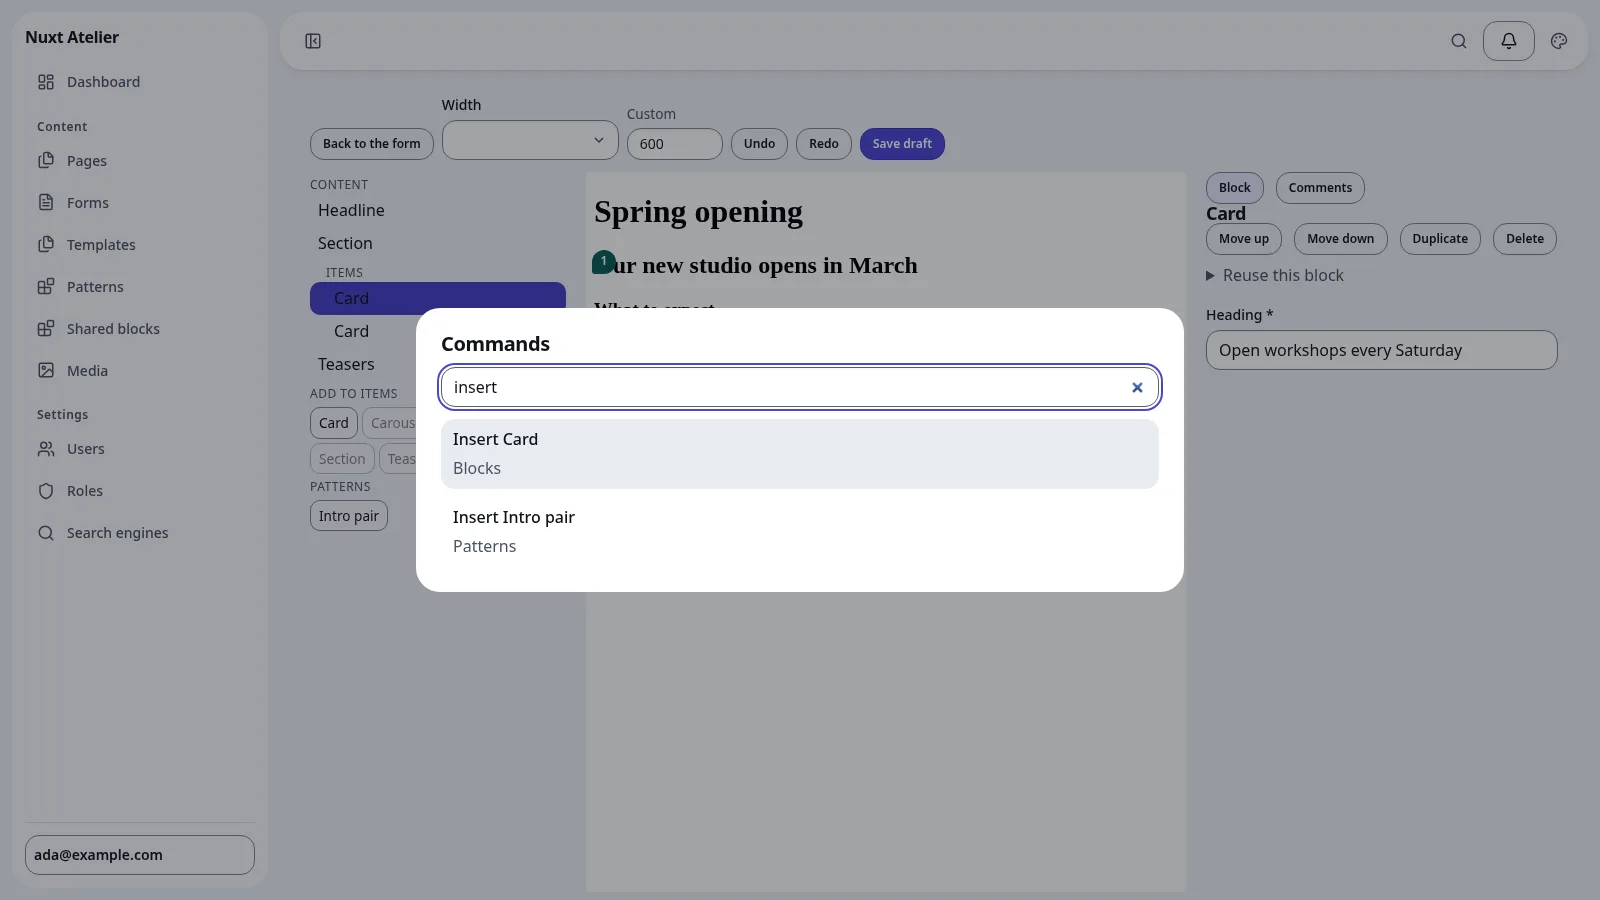
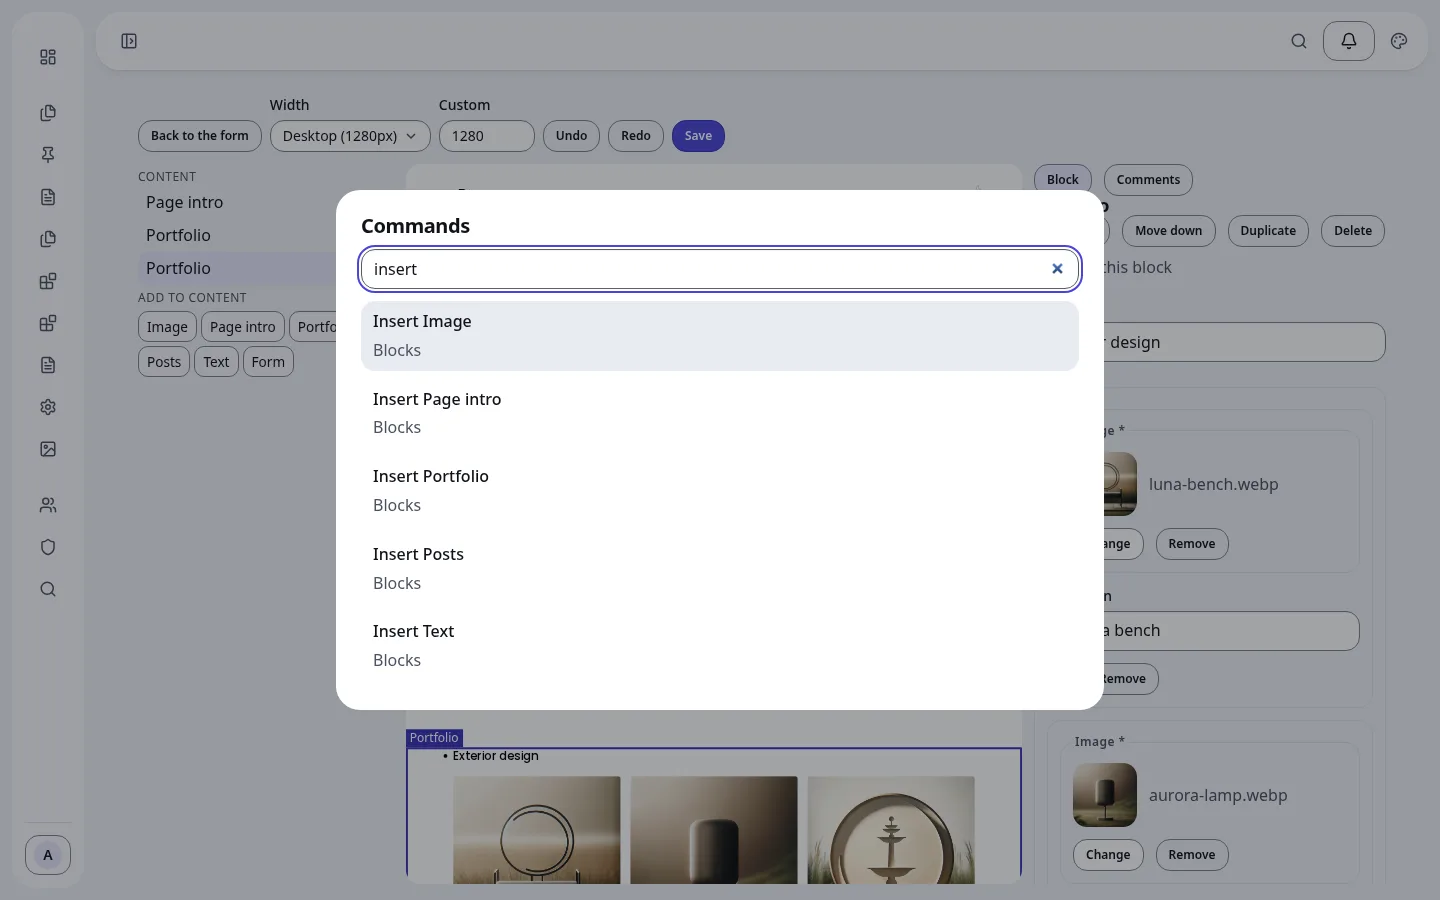
docs: screenshots across the guides, getting started, reference, deployment and tutorial, from a script

diff --git a/scripts/docs-screenshots.ts b/scripts/docs-screenshots.ts
@@ -1,0 +1,195 @@
+// The docs' screenshots (docs/public/media/*.webp), taken from the Rayleigh example with its demo content.
+// Against a fresh database, so the first screen is the setup:
+//
+//   cd examples/rayleigh && bun run build
+//   NUXT_ATELIER_DATABASE_URL=file:/tmp/shots.sqlite bunx atelier migrate apply
+//   NUXT_ATELIER_DATABASE_URL=file:/tmp/shots.sqlite NUXT_APP_SECRET=<32+ characters> node .output/server/index.mjs
+//   bun run docs:screenshots                   # BASE=http://localhost:3000 by default
+//
+// It edits the content as it goes (a draft, a user, a comment, a submission): run it on a fresh database.
+// Names after the command take only those shots (`bun scripts/docs-screenshots.ts admin-list`).
+import type { Locator, Page } from 'playwright-core'
+import { join, resolve } from 'node:path'
+import { chromium } from 'playwright-core'
+import sharp from 'sharp'
+
+const BASE = process.env.BASE ?? 'http://localhost:3000'
+const OUT = resolve(import.meta.dirname, '../docs/public/media')
+const ONLY = process.argv.slice(2)
+
+const browser = await chromium.launch()
+const context = await browser.newContext({ viewport: { width: 1440, height: 900 }, deviceScaleFactor: 1, reducedMotion: 'reduce' })
+const page = await context.newPage()
+
+/** Saves the page, or one element of it with a margin of the page around it, as a WebP. */
+async function shot(name: string, target: Page | Locator = page) {
+  if (ONLY.length && !ONLY.includes(name))
+    return
+  await page.mouse.move(0, 0) // no hover effects
+  await page.waitForTimeout(400)
+  let clip: { x: number, y: number, width: number, height: number } | undefined
+  if (target !== page) {
+    await (target as Locator).scrollIntoViewIfNeeded()
+    const box = (await (target as Locator).boundingBox())!
+    const x = Math.max(0, box.x - 24)
+    const y = Math.max(0, box.y - 24)
+    clip = { x, y, width: Math.min(1440 - x, box.width + 48), height: Math.min(900 - y, box.height + 48) }
+  }
+  const png = await page.screenshot({ animations: 'disabled', clip })
+  await sharp(png).webp({ quality: 82 }).toFile(join(OUT, `${name}.webp`))
+  console.log(name)
+}
+const admin = (path = '') => page.goto(`${BASE}/admin${path}`)
+const heading = (name: string | RegExp) => page.getByRole('heading', { name }).first().waitFor()
+// the editor keeps a connection open (presence): idle or not after 5 s
+const settle = () => page.waitForLoadState('networkidle', { timeout: 5000 }).catch(() => {}).then(() => page.waitForTimeout(600))
+/** The section of the entry form under `name`. */
+const section = (name: string) => page.locator('section, fieldset').filter({ has: page.getByRole('heading', { name, exact: true }) }).last()
+
+// --- setup, then the admin
+await admin()
+const setup = page.getByRole('button', { name: 'Create administrator' })
+await setup.or(page.getByRole('button', { name: 'Sign in', exact: true })).waitFor()
+if (await setup.isVisible()) {
+  await shot('admin-setup')
+  await page.getByLabel('Name').fill('Ada Lovelace')
+}
+await page.getByLabel('Email').fill('ada@example.com')
+await page.getByLabel('Password').fill('a long docs password')
+await page.getByRole('button', { name: /^(Create administrator|Sign in)$/ }).click()
+await heading('Dashboard')
+
+await admin('/collections/posts')
+await page.getByRole('link', { name: /Linear Elegance/ }).click()
+await page.getByLabel('Title *').waitFor()
+const post = page.url()
+// a draft over the published post, so it shows as changed, with history
+await page.getByLabel('Headline').fill('Linear Elegance: Architectural Minimalism')
+await page.getByRole('button', { name: 'Save draft' }).click()
+await page.getByText('Draft saved').waitFor()
+
+await admin()
+await heading('Dashboard')
+await settle()
+await shot('admin-dashboard')
+
+await admin('/collections/posts')
+await heading('Posts')
+await settle()
+await shot('admin-list')
+
+await page.goto(post)
+await page.getByLabel('Title *').waitFor()
+await settle()
+await shot('admin-entry')
+await shot('admin-seo', section('Search and sharing'))
+await shot('admin-schedule', section('Schedule'))
+await page.locator('[data-history] summary').click()
+await settle()
+await shot('admin-history', page.locator('[data-history]'))
+
+await admin('/users')
+await heading('Users')
+await page.getByRole('button', { name: 'New user' }).click()
+await page.getByLabel('Email').fill('grace@example.com')
+await page.getByLabel('Name').fill('Grace Hopper')
+await page.getByLabel('Role').selectOption({ label: 'Editor' }).catch(() => {})
+await page.getByLabel('Password').fill('another long password')
+await page.getByRole('button', { name: 'Create user' }).click()
+await page.getByText('Grace Hopper').first().waitFor()
+await page.getByText('User created').waitFor({ state: 'hidden', timeout: 15_000 }).catch(() => {})
+await settle()
+await shot('admin-users')
+
+await admin('/roles/new')
+await heading('New role')
+await page.getByLabel('Name').fill('author')
+await page.getByLabel('Label').fill('Author')
+await page.getByLabel('Media').check()
+await settle()
+await shot('admin-role')
+
+await admin('/media')
+await heading('Media')
+await settle()
+await shot('media-library')
+await page.getByRole('button', { name: 'harmony-seating.webp' }).click()
+await settle()
+await shot('media-details')
+
+await admin('/settings/robots')
+await heading('Search engines')
+await settle()
+await shot('seo-robots')
+
+// a submission, then the form in the admin
+await page.goto(`${BASE}/contact`)
+await page.getByLabel(/Your name/).fill('Grace Hopper')
+await page.getByLabel(/email/i).first().fill('grace@example.com')
+await page.getByLabel(/message/i).fill('Could you design a reading room for our library?')
+await shot('tutorial-contact')
+await page.getByRole('button', { name: /send/i }).click()
+await page.getByRole('status').waitFor()
+await admin('/collections/atelier-forms')
+await page.getByRole('link', { name: 'Contact' }).click()
+await page.getByLabel('Title *').waitFor()
+await settle()
+await shot('form-builder')
+await shot('form-submissions', page.locator('[data-form-submissions]'))
+
+// the visual editor, with the sidebar as an icon rail for room
+await admin('/singletons/home')
+await heading('Home page')
+await page.locator('[data-visual-editor]').first().click()
+const preview = page.frameLocator('iframe[title="Preview of the page"]')
+await preview.getByText('Exterior design').waitFor()
+await page.locator('.app-rail-toggle').click().catch(() => {})
+await settle()
+await page.locator('.ate-tree__block', { hasText: 'Portfolio' }).nth(1).click()
+// every image in the preview loaded
+await preview.locator('body').evaluate(body => Promise.all([...body.querySelectorAll('img')].map(img => (img.loading = 'eager', img.decode().catch(() => {})))))
+await settle()
+await shot('visual-editor')
+await page.keyboard.press('Control+k')
+await page.keyboard.type('insert')
+await settle()
+await shot('visual-editor-commands')
+await page.keyboard.press('Escape') // clears the search
+await page.keyboard.press('Escape')
+await page.getByRole('button', { name: 'Comments' }).click()
+await page.getByLabel('Add a comment').fill('Could this gallery open with the bench?')
+await page.getByRole('button', { name: 'Comment', exact: true }).click()
+await settle()
+await shot('visual-editor-comments')
+await page.getByRole('button', { name: 'Block' }).click()
+await page.getByText('Reuse this block').click()
+await settle()
+await shot('visual-editor-reuse')
+
+// --- the site
+await page.goto(BASE)
+await settle()
+await shot('tutorial-home')
+await shot('tutorial-portfolio', page.locator('h2', { hasText: 'Interior design' }).locator('xpath=ancestor::div[1]/..'))
+await page.getByRole('button', { name: /Open Modern armchair/ }).click()
+await settle()
+await shot('tutorial-lightbox')
+await page.keyboard.press('Escape')
+await page.goto(`${BASE}/about`)
+await settle()
+await shot('tutorial-about')
+await page.goto(`${BASE}/blog`)
+await settle()
+await shot('tutorial-blog')
+await page.goto(`${BASE}/blog/linear-elegance`)
+await settle()
+await shot('tutorial-post')
+const dark = await browser.newContext({ viewport: { width: 1440, height: 900 }, colorScheme: 'dark', reducedMotion: 'reduce' })
+const night = await dark.newPage()
+await night.goto(BASE)
+await night.waitForLoadState('networkidle')
+await night.waitForTimeout(600)
+if (!ONLY.length || ONLY.includes('tutorial-dark'))
+  await sharp(await night.screenshot()).webp({ quality: 82 }).toFile(join(OUT, 'tutorial-dark.webp')).then(() => console.log('tutorial-dark'))
+
+await browser.close()

diff --git a/docs/content/2.guides/12.visual-editor.md b/docs/content/2.guides/12.visual-editor.md
@@ -5,13 +5,13 @@ description: For editors, building a page on the page itself, with its blocks, i
 
 The visual editor shows the real page as visitors will see it, with your unsaved changes, and lets you edit it there. Open an entry and choose **Visual editor**; the button appears on entries that have their own page, when the site has the editor installed.
 
-![The visual editor: the page's structure on the left, the page in the middle with the selected card outlined, the card's form on the right](/media/visual-editor.webp)
+![The visual editor: the page's structure on the left, the page in the middle with the selected gallery outlined, the gallery's fields on the right](/media/visual-editor.webp)
 
 ::live-demo{path="/admin/edit?type=home" label="The visual editor, on the demo's home page"}
 ::
 
 - **The structure** (left) lists the page's blocks in order, with the blocks inside each one under it, and the blocks you can add.
-- **The page** (middle) is the live page with your changes. The selected block is outlined and labeled. Choose a width at the top: desktop, tablet, mobile or your own.
+- **The page** (middle) is the live page with your changes. The selected block is outlined and labeled. Choose a width at the top: desktop, tablet, mobile or your own. A page wider than the space for it is shown scaled down, whole.
 - **The side panel** (right) shows the selected block's fields, or the page's comments.
 
 Nothing you do here is live until you save and publish, as with the entry's form. **Back to the form** returns to it, with your changes.
@@ -52,6 +52,10 @@ It lists the blocks and patterns you can insert where the selection is, the acti
 - A selected shared block says so in the side panel. **Detach** makes it this page's own copy.
 - **Ctrl+C** copies the selected block and **Ctrl+V** pastes it after the selected one, in this entry, another one, or another browser tab. Pasting follows the same rules as adding.
 
+![Reuse this block, opened on a selected gallery: a title, then Save as shared block or Save as pattern](/media/visual-editor-reuse.webp)
+
 ## Comments
 
 A block with open comment threads shows a numbered marker on the page. Click it to open the thread in the side panel's **Comments**, where you can reply and resolve as in the entry's form (see [Working together](/guides/working-together)).
+
+![The Comments tab: a comment with Reply, Resolve and Delete, and a box for a new one](/media/visual-editor-comments.webp)

diff --git a/docs/content/2.guides/5.drafts-and-publishing.md b/docs/content/2.guides/5.drafts-and-publishing.md
@@ -23,6 +23,8 @@ You need permission to publish. Without it you can still write and save drafts, 
 
 Instead of publishing now, you can **schedule** it for a date and time, under **Schedule** below the form. Schedule a sale page for Monday at 9:00 and it goes live then, even if nobody is working. You can also schedule a page to be taken off the site, say when the sale ends.
 
+![The Schedule section of an entry: an action, a date and time, and the Schedule button](/media/admin-schedule.webp)
+
 A schedule publishes the page as it was when you scheduled it. If you keep editing afterwards, those changes stay in the draft and aren't published with it, and the page says which version is scheduled. To publish your latest changes at that time instead, schedule it again.
 
 Times are your own time zone's. If something stops a scheduled publish, for example another page has taken its address meanwhile, the schedule shows it failed and why.
@@ -36,6 +38,8 @@ To show it to someone who doesn't sign in, like a client, create a **preview lin
 ## Earlier versions
 
 Every save and every publish is kept in the page's **history**: who saved it, when, and whether it was published. Open **History** below the form to see them, newest first. Tick two versions to compare them and see what changed: text, fields, and blocks added, removed, moved or edited.
+
+![An entry's history: three versions, the first published, each with Restore, and boxes to compare two](/media/admin-history.webp)
 
 To go back, **restore** a version. It becomes your new draft, and the versions in between stay in the history, so nothing is lost. Publish the restored draft when you're happy with it.
 

diff --git a/docs/content/2.guides/8.search-engines.md b/docs/content/2.guides/8.search-engines.md
@@ -10,6 +10,8 @@ Pages with an address on your site (posts, articles, products…) show a **Searc
 - **In search results**: the address, the title as search engines show it (with your site's name, if your site adds it), and the description.
 - **When shared**: the image, title and description a link shows in chat apps and social networks.
 
+![A post's Search and sharing previews, as a search result and as a shared link, with advice about the length of its title and description](/media/admin-seo.webp)
+
 ## Where the text comes from
 
 If the page has an **SEO** group of fields, what you write there is used. Anything you leave empty there comes from the page itself:
@@ -36,5 +38,7 @@ Under the previews, the panel suggests improvements. They're only advice: you ca
 ## What search engines may visit
 
 Administrators and roles that manage settings decide what search engines and other crawlers may visit, under **Search engines** in the admin. Turning off **Let search engines index the site** asks every crawler to stay away, for a site that isn't ready yet. Rules can keep particular crawlers (an AI crawler, say) or paths out. The admin itself is always off limits. **Use the configuration** goes back to what your developers set.
+
+![The Search engines page: a switch to let search engines index the site, rules, and the resulting robots.txt](/media/seo-robots.webp)
 
 Only published pages are in the sitemap search engines read, without the ones marked noindex.

diff --git a/docs/content/2.guides/6.media.md b/docs/content/2.guides/6.media.md
@@ -9,11 +9,15 @@ The media library holds your site's images, videos, audio and PDFs. Upload a fil
 
 Drop files into the library, or upload one straight from the field or block that needs it. Large files go up in pieces: if your connection drops, the upload picks up where it stopped instead of starting over.
 
+![The media library: images as tiles with their file names, with search and filters above](/media/media-library.webp)
+
 The site checks what each file really is, not just its name: images, videos, audio and PDFs are accepted by default. A file pretending to be something else, like a program renamed `photo.jpg`, is refused. There's also a size limit, 50 MB unless your developer changed it.
 
 ## Describing a file
 
 Each file has:
+
+![A file's details beside the library: the image, its size, the focal point note and its alt text](/media/media-details.webp)
 
 - **Alt text**: what the image shows, for people using screen readers and when the image can't load. Write what matters on the page, like "Ada presenting at the spring meetup", not "image". On a site in several languages, write it in each.
 - **Title, caption and credits**: shown where your site's design uses them. Credits are for the photographer or source.

diff --git a/docs/content/2.guides/2.the-admin.md b/docs/content/2.guides/2.the-admin.md
@@ -34,11 +34,15 @@ A collection opens as a list. You can:
 - **select** entries with their checkboxes, then publish, unpublish, export (JSON or CSV) or delete them together. If some can't be done, a message says which and why; the rest are done;
 - page through long lists at the bottom.
 
+![The list of posts, with their publishing date, status and last change](/media/admin-list.webp)
+
 Each entry shows its status: **Draft** (never published), **Published**, or **Changed** (published, with changes not published yet).
 
 ## Editing
 
 Open an entry to edit it, or choose **New**. The form is built from the fields your developers defined; a field your role may only read is shown but can't be changed, and fields you may not see aren't there.
+
+![A post being edited: its title, address, headline, description and cover image](/media/admin-entry.webp)
 
 - **Save draft** keeps your changes without publishing them (see [drafts and publishing](/guides/drafts-and-publishing)). In content without drafts, **Save** publishes straight away.
 - When a field needs fixing, the message is under it.

diff --git a/docs/content/2.guides/11.building-forms.md b/docs/content/2.guides/11.building-forms.md
@@ -7,6 +7,8 @@ description: For editors, making contact and sign-up forms, placing them on page
 
 In **Forms**, create a form and add its fields. Each field has:
 
+![The contact form being edited: its first field, with a name, type, label and options](/media/form-builder.webp)
+
 - a **name**: how it's stored and exported (letters, digits, `_` and `-`; `email`, `message`…)
 - a **type**: text, email, textarea, number, select, checkbox, radio, date, file, hidden or consent
 - a **label**, and in **labels** the label in other languages, like `{ "de": "Ihr Name" }`
@@ -28,6 +30,8 @@ Add the **Form** block to a page and choose the form. The same form can be on ma
 ## What people send
 
 A form's page lists its **Submissions** for those who manage form submissions: search them, filter by date, open uploaded files, export them as **CSV** or **JSON**, or delete one.
+
+![The Submissions section of a form: search and dates, export and erase buttons, and one submission](/media/form-submissions.webp)
 
 Uploaded files are private: they're never on a public address, only here.
 

diff --git a/docs/content/2.guides/3.users-and-roles.md b/docs/content/2.guides/3.users-and-roles.md
@@ -5,11 +5,15 @@ description: Who can do what in the CMS, and how to sign in safely.
 
 Everyone who works in the CMS has their own account and one **role**. The role decides what they can see and change.
 
+![The users list: an administrator and an editor, each with their role](/media/admin-users.webp)
+
 ## Roles
 
 - **Administrator** can do everything, including managing users and roles. There's always at least one: the CMS won't let the last administrator lose the role or be deleted.
 - **Editor** is created with the CMS: it can create, edit, publish and delete all content, and manage media.
 - Your site may have others, such as an author who can only publish their own articles, or a reviewer who can't change some fields.
+
+![A new role being made: what it manages, and what it may do with each content type](/media/admin-role.webp)
 
 A role can allow, for each kind of content:
 

diff --git a/docs/content/6.tutorial/1.setup.md b/docs/content/6.tutorial/1.setup.md
@@ -245,4 +245,6 @@ bun run dev
 
 Open [http://localhost:3000/admin](http://localhost:3000/admin) and create the first administrator. In **Home page**, set a title, add a **Page intro** block with "Welcome to Rayleigh", and choose **Publish**. [http://localhost:3000](http://localhost:3000) shows it.
 
+![The admin's first screen, asking for the first administrator's name, email and password](/media/admin-setup.webp)
+
 While you build, `nuxt dev` keeps the database in step with your content types: each change becomes a migration in `server/atelier/migrations/`, applied at once. Commit them with your code; [chapter 7](/tutorial/deploy) applies them in production. A change that would delete data, like removing a field, waits for you to confirm it with `bunx atelier migrate generate --drop`.

diff --git a/docs/content/2.guides/10.reusing-content.md b/docs/content/2.guides/10.reusing-content.md
@@ -7,6 +7,8 @@ description: For editors, shared blocks that update everywhere at once, patterns
 
 A shared block is one block, kept in **Shared blocks**, that you place on as many pages as you like. Edit it there and publish it: every page that uses it shows the change, without editing each page. Pages show a shared block's published version; its draft only shows in previews.
 
+![Reuse this block, opened on a selected gallery: a title, then Save as shared block or Save as pattern](/media/visual-editor-reuse.webp)
+
 A shared block's page lists **where it's used**.
 
 - **Detach** a shared block on one page to make it that page's own copy: you can then change it there without touching the others, and it no longer follows the shared block.

diff --git a/docs/content/2.guides/9.working-together.md b/docs/content/2.guides/9.working-together.md
@@ -19,6 +19,8 @@ If someone left an entry open and you need it now, **Take over** gives it to you
 
 Under each entry, **Comments** holds the discussion about it. Comments aren't content: they're never published and don't appear in the entry's history.
 
+![The Comments tab of the visual editor: a comment with Reply, Resolve and Delete, and a box for a new one](/media/visual-editor-comments.webp)
+
 - **On a block**: choose the block under **About** before you write.
 - **Mention someone** with **Mention**: they're notified. Only people who can read the entry can be mentioned.
 - **Reply** to keep a discussion in one thread, and **Resolve** it when it's settled (or **Reopen** it).

diff --git a/docs/content/4.deployment/17.public-demo.md b/docs/content/4.deployment/17.public-demo.md
@@ -5,6 +5,8 @@ description: Let anyone try your site's admin and visual editor, each in a copy 
 
 Demo mode turns a site into a public demo: every visitor who starts one gets a copy of the site to change as they like, signed in as its administrator. Their changes show to them alone, never to the site or to other visitors, and the copy is deleted once they leave. Nuxt Atelier's own [live demo](/getting-started/introduction) runs this way.
 
+![The home page of Rayleigh, the site the live demo runs](/media/tutorial-home.webp)
+
 ```ts [nuxt.config.ts]
 export default defineNuxtConfig({
   modules: ['nuxt-atelier', '@nuxt-atelier/admin', '@nuxt-atelier/editor'],
